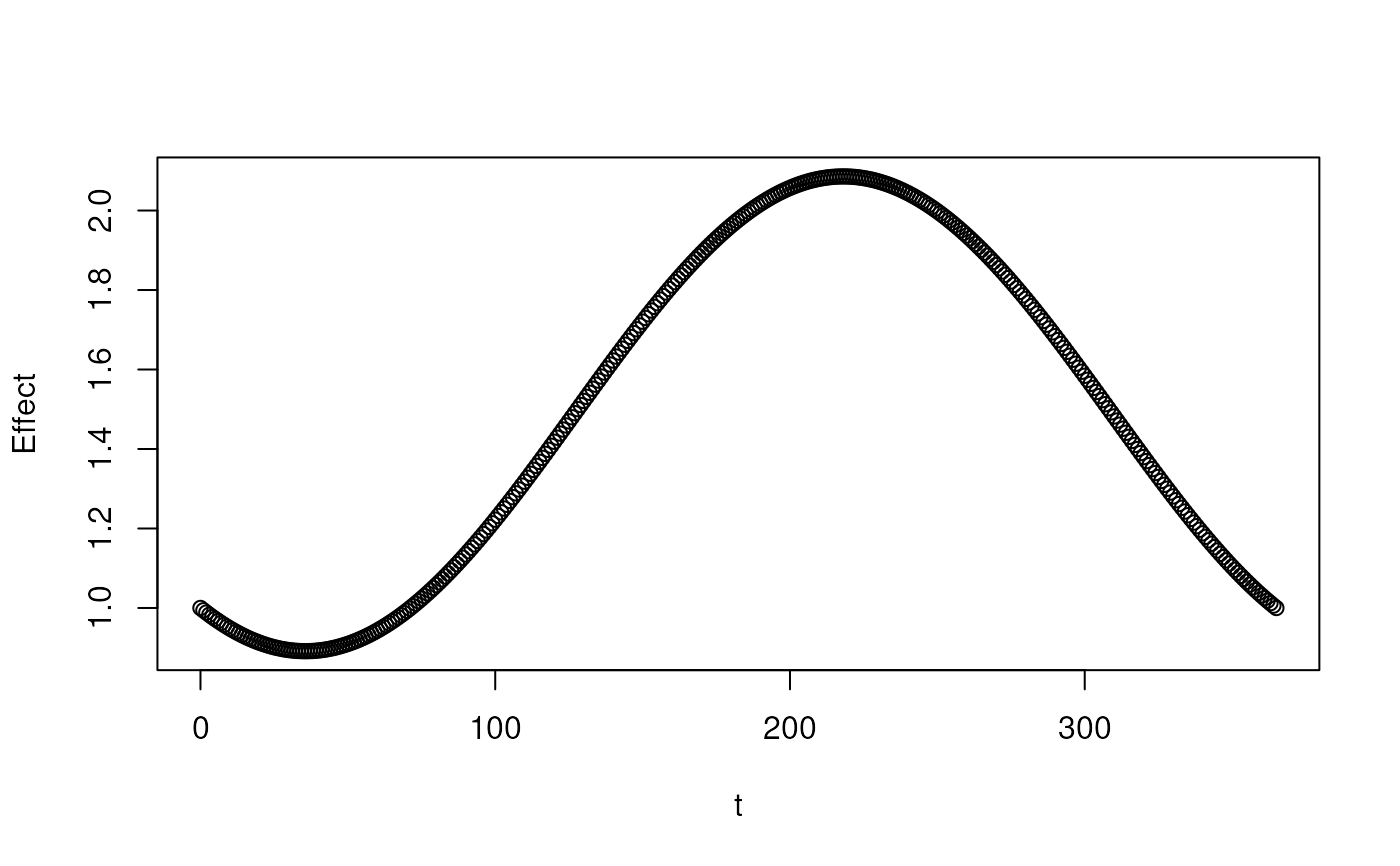
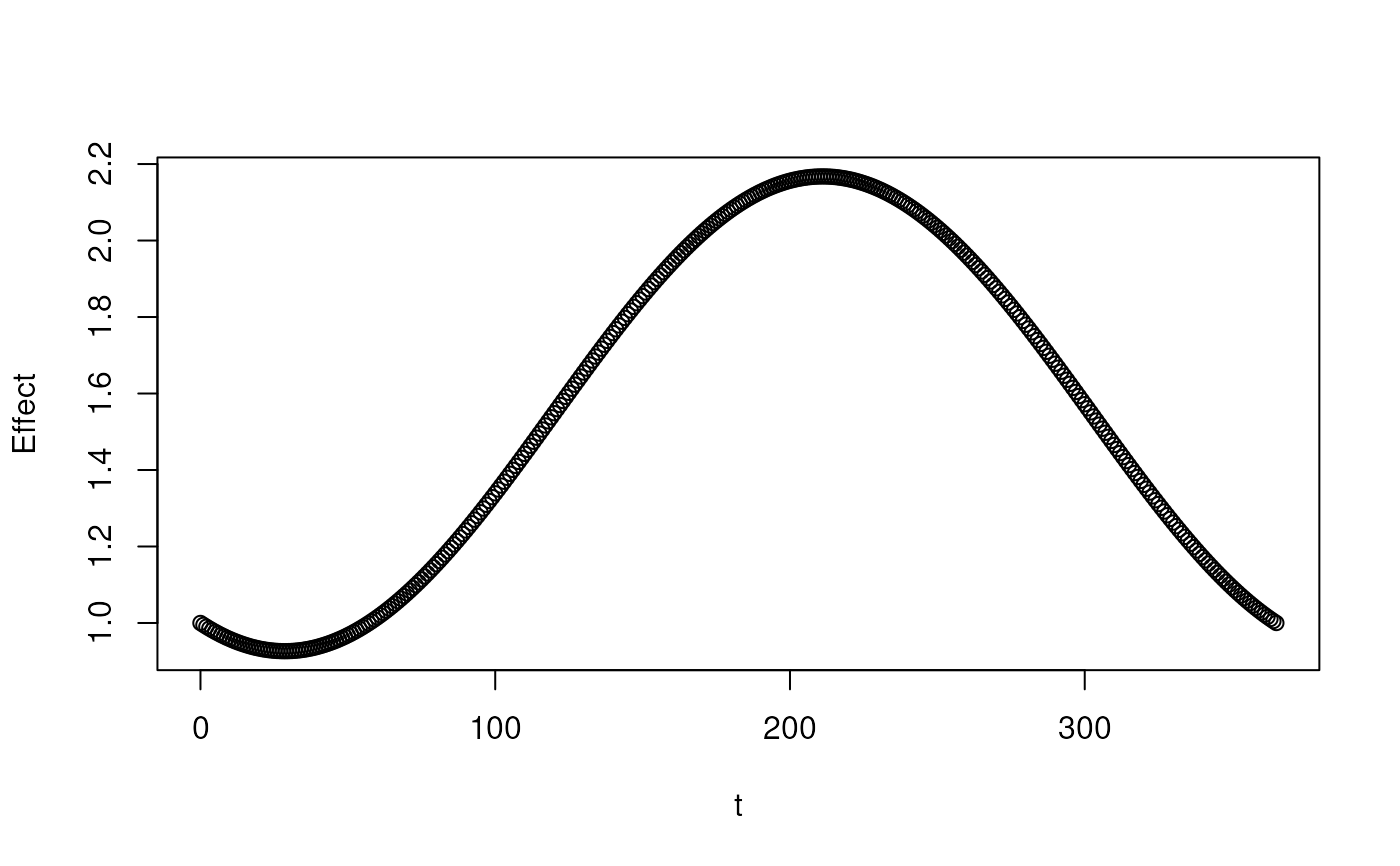
Deploying to gh-pages from @ ssi-dk/diseasy@2d1eb0903b9e709979711220a4517ebb30eea9bc 🚀

diff --git a/articles/SEIR-initialisation.html b/articles/SEIR-initialisation.html
@@ -387,16 +387,16 @@ a reduced probability of testing during weekends.</li>
 <span><span class="co">#&gt; <span style="color: #949494;"># A tibble: 1,500 × 6</span></span></span>
 <span><span class="co">#&gt;    date       age_group variant n_infected n_positive_simple n_positive</span></span>
 <span><span class="co">#&gt;    <span style="color: #949494; font-style: italic;">&lt;date&gt;</span>     <span style="color: #949494; font-style: italic;">&lt;chr&gt;</span>     <span style="color: #949494; font-style: italic;">&lt;chr&gt;</span>        <span style="color: #949494; font-style: italic;">&lt;dbl&gt;</span>             <span style="color: #949494; font-style: italic;">&lt;dbl&gt;</span>      <span style="color: #949494; font-style: italic;">&lt;dbl&gt;</span></span></span>
-<span><span class="co">#&gt; <span style="color: #BCBCBC;"> 1</span> 2020-01-03 00-29     WT            68.0                42         42</span></span>
-<span><span class="co">#&gt; <span style="color: #BCBCBC;"> 2</span> 2020-01-04 00-29     WT           145.                 94         69</span></span>
-<span><span class="co">#&gt; <span style="color: #BCBCBC;"> 3</span> 2020-01-05 00-29     WT           191.                122         93</span></span>
-<span><span class="co">#&gt; <span style="color: #BCBCBC;"> 4</span> 2020-01-06 00-29     WT           220.                142        149</span></span>
-<span><span class="co">#&gt; <span style="color: #BCBCBC;"> 5</span> 2020-01-07 00-29     WT           242.                152        163</span></span>
-<span><span class="co">#&gt; <span style="color: #BCBCBC;"> 6</span> 2020-01-08 00-29     WT           265.                169        180</span></span>
-<span><span class="co">#&gt; <span style="color: #BCBCBC;"> 7</span> 2020-01-09 00-29     WT           289.                189        203</span></span>
-<span><span class="co">#&gt; <span style="color: #BCBCBC;"> 8</span> 2020-01-10 00-29     WT           315.                191        207</span></span>
-<span><span class="co">#&gt; <span style="color: #BCBCBC;"> 9</span> 2020-01-11 00-29     WT           343.                231        176</span></span>
-<span><span class="co">#&gt; <span style="color: #BCBCBC;">10</span> 2020-01-12 00-29     WT           374.                236        174</span></span>
+<span><span class="co">#&gt; <span style="color: #BCBCBC;"> 1</span> 2020-01-03 60+       WT            17.2                 7          7</span></span>
+<span><span class="co">#&gt; <span style="color: #BCBCBC;"> 2</span> 2020-01-04 60+       WT            36.8                26         23</span></span>
+<span><span class="co">#&gt; <span style="color: #BCBCBC;"> 3</span> 2020-01-05 60+       WT            49.1                26         19</span></span>
+<span><span class="co">#&gt; <span style="color: #BCBCBC;"> 4</span> 2020-01-06 60+       WT            57.4                34         39</span></span>
+<span><span class="co">#&gt; <span style="color: #BCBCBC;"> 5</span> 2020-01-07 60+       WT            64.4                47         47</span></span>
+<span><span class="co">#&gt; <span style="color: #BCBCBC;"> 6</span> 2020-01-08 60+       WT            71.6                44         47</span></span>
+<span><span class="co">#&gt; <span style="color: #BCBCBC;"> 7</span> 2020-01-09 60+       WT            79.2                55         59</span></span>
+<span><span class="co">#&gt; <span style="color: #BCBCBC;"> 8</span> 2020-01-10 60+       WT            87.3                61         64</span></span>
+<span><span class="co">#&gt; <span style="color: #BCBCBC;"> 9</span> 2020-01-11 60+       WT            96.0                59         47</span></span>
+<span><span class="co">#&gt; <span style="color: #BCBCBC;">10</span> 2020-01-12 60+       WT           105.                 83         67</span></span>
 <span><span class="co">#&gt; <span style="color: #949494;"># ℹ 1,490 more rows</span></span></span></code></pre></div>
 <div class="sourceCode" id="cb5"><pre class="downlit sourceCode r">
 <code class="sourceCode R"><span><span class="co"># Visualise the example data</span></span>

diff --git a/articles/creating-ensembles.html b/articles/creating-ensembles.html
@@ -193,7 +193,7 @@ instances which we give the class <code>DiseasyEnsemble</code>.</p>
 functions to get a quick overview of the ensemble.</p>
 <div class="sourceCode" id="cb3"><pre class="downlit sourceCode r">
 <code class="sourceCode R"><span><span class="fu"><a href="../reference/print.html">print</a></span><span class="op">(</span><span class="va">ensemble</span><span class="op">)</span></span>
-<span><span class="co">#&gt; DiseasyEnsemble: DiseasyModelG1 (hash: d26fe), DiseasyModelG1 (hash: 9d665), DiseasyModelG1 (hash: 436c6)</span></span></code></pre></div>
+<span><span class="co">#&gt; DiseasyEnsemble: DiseasyModelG1 (hash: bdd52), DiseasyModelG1 (hash: 661b7), DiseasyModelG1 (hash: dfddf)</span></span></code></pre></div>
 <div class="sourceCode" id="cb4"><pre class="downlit sourceCode r">
 <code class="sourceCode R"><span><span class="fu"><a href="https://rdrr.io/r/base/summary.html" class="external-link">summary</a></span><span class="op">(</span><span class="va">ensemble</span><span class="op">)</span></span>
 <span><span class="co">#&gt; DiseasyEnsemble consisting of:</span></span>
@@ -212,12 +212,12 @@ least specify the following:</p>
 <span><span class="co">#&gt; <span style="color: #949494;"># A tibble: 6 × 5</span></span></span>
 <span><span class="co">#&gt;   date       n_positive realisation_id weight model                           </span></span>
 <span><span class="co">#&gt;   <span style="color: #949494; font-style: italic;">&lt;date&gt;</span>          <span style="color: #949494; font-style: italic;">&lt;dbl&gt;</span> <span style="color: #949494; font-style: italic;">&lt;chr&gt;</span>           <span style="color: #949494; font-style: italic;">&lt;dbl&gt;</span> <span style="color: #949494; font-style: italic;">&lt;chr&gt;</span>                           </span></span>
-<span><span class="co">#&gt; <span style="color: #BCBCBC;">1</span> 2021-03-28      <span style="text-decoration: underline;">2</span>132. 1                   1 d26fe7ff2fb274b77fb3da15cf878d53</span></span>
-<span><span class="co">#&gt; <span style="color: #BCBCBC;">2</span> 2021-03-29      <span style="text-decoration: underline;">1</span>719. 1                   1 d26fe7ff2fb274b77fb3da15cf878d53</span></span>
-<span><span class="co">#&gt; <span style="color: #BCBCBC;">3</span> 2021-03-30      <span style="text-decoration: underline;">2</span>432. 1                   1 d26fe7ff2fb274b77fb3da15cf878d53</span></span>
-<span><span class="co">#&gt; <span style="color: #BCBCBC;">4</span> 2021-03-31      <span style="text-decoration: underline;">2</span>555. 1                   1 d26fe7ff2fb274b77fb3da15cf878d53</span></span>
-<span><span class="co">#&gt; <span style="color: #BCBCBC;">5</span> 2021-04-01      <span style="text-decoration: underline;">2</span>163. 1                   1 d26fe7ff2fb274b77fb3da15cf878d53</span></span>
-<span><span class="co">#&gt; <span style="color: #BCBCBC;">6</span> 2021-04-02      <span style="text-decoration: underline;">1</span>253. 1                   1 d26fe7ff2fb274b77fb3da15cf878d53</span></span></code></pre></div>
+<span><span class="co">#&gt; <span style="color: #BCBCBC;">1</span> 2021-03-28      <span style="text-decoration: underline;">2</span>132. 1                   1 bdd5255f35f1e5990a3e9cb79141dfb2</span></span>
+<span><span class="co">#&gt; <span style="color: #BCBCBC;">2</span> 2021-03-29      <span style="text-decoration: underline;">1</span>719. 1                   1 bdd5255f35f1e5990a3e9cb79141dfb2</span></span>
+<span><span class="co">#&gt; <span style="color: #BCBCBC;">3</span> 2021-03-30      <span style="text-decoration: underline;">2</span>432. 1                   1 bdd5255f35f1e5990a3e9cb79141dfb2</span></span>
+<span><span class="co">#&gt; <span style="color: #BCBCBC;">4</span> 2021-03-31      <span style="text-decoration: underline;">2</span>555. 1                   1 bdd5255f35f1e5990a3e9cb79141dfb2</span></span>
+<span><span class="co">#&gt; <span style="color: #BCBCBC;">5</span> 2021-04-01      <span style="text-decoration: underline;">2</span>163. 1                   1 bdd5255f35f1e5990a3e9cb79141dfb2</span></span>
+<span><span class="co">#&gt; <span style="color: #BCBCBC;">6</span> 2021-04-02      <span style="text-decoration: underline;">1</span>253. 1                   1 bdd5255f35f1e5990a3e9cb79141dfb2</span></span></code></pre></div>
 <div class="sourceCode" id="cb6"><pre class="downlit sourceCode r">
 <code class="sourceCode R"><span><span class="fu"><a href="../reference/plot.html">plot</a></span><span class="op">(</span><span class="va">ensemble</span>, observable <span class="op">=</span> <span class="st">"n_positive"</span>, prediction_length <span class="op">=</span> <span class="fl">30</span><span class="op">)</span></span></code></pre></div>
 <p><img src="creating-ensembles_files/figure-html/unnamed-chunk-7-1.png" class="r-plt" alt="Plot of the ensemble predictions. Shaded area is ensemble quantiles with observations as points." width="700"></p>
@@ -296,7 +296,7 @@ parameter settings from before.</p>
 models:</p>
 <div class="sourceCode" id="cb11"><pre class="downlit sourceCode r">
 <code class="sourceCode R"><span><span class="fu"><a href="../reference/print.html">print</a></span><span class="op">(</span><span class="va">ensemble</span><span class="op">)</span></span>
-<span><span class="co">#&gt; DiseasyEnsemble: DiseasyModelG0 (hash: 8c030), DiseasyModelG0 (hash: 1780b), DiseasyModelG0 (hash: 6f2c6), DiseasyModelG1 (hash: d26fe), DiseasyModelG1 (hash: 9d665)</span></span></code></pre></div>
+<span><span class="co">#&gt; DiseasyEnsemble: DiseasyModelG0 (hash: 180d9), DiseasyModelG0 (hash: ca107), DiseasyModelG0 (hash: 60f10), DiseasyModelG1 (hash: bdd52), DiseasyModelG1 (hash: 661b7)</span></span></code></pre></div>
 <div class="sourceCode" id="cb12"><pre class="downlit sourceCode r">
 <code class="sourceCode R"><span><span class="fu"><a href="https://rdrr.io/r/base/summary.html" class="external-link">summary</a></span><span class="op">(</span><span class="va">ensemble</span><span class="op">)</span></span>
 <span><span class="co">#&gt; DiseasyEnsemble consisting of:</span></span>

diff --git a/articles/diseasy-immunity.html b/articles/diseasy-immunity.html
@@ -134,7 +134,7 @@ the following code.</p>
 <span><span class="co">#&gt; $infection</span></span>
 <span><span class="co">#&gt; function (t) </span></span>
 <span><span class="co">#&gt; 1</span></span>
-<span><span class="co">#&gt; &lt;environment: 0x5653221313c8&gt;</span></span>
+<span><span class="co">#&gt; &lt;environment: 0x563c3df5e230&gt;</span></span>
 <span><span class="co">#&gt; attr(,"name")</span></span>
 <span><span class="co">#&gt; [1] "no_waning"</span></span></code></pre></div>
 <p>This returns a <code>named list()</code> where the named target are
@@ -170,7 +170,7 @@ parameter.</li>
 <span><span class="co">#&gt; $infection</span></span>
 <span><span class="co">#&gt; function (t) </span></span>
 <span><span class="co">#&gt; exp(-(t - time_scale)/shape)/(1 + exp(-(t - time_scale)/shape))</span></span>
-<span><span class="co">#&gt; &lt;environment: 0x56532383be50&gt;</span></span>
+<span><span class="co">#&gt; &lt;environment: 0x563c3f6645f8&gt;</span></span>
 <span><span class="co">#&gt; attr(,"name")</span></span>
 <span><span class="co">#&gt; [1] "sigmoidal_waning"</span></span>
 <span><span class="co">#&gt; attr(,"dots")</span></span>
@@ -215,7 +215,7 @@ identification. Default is “custom_waning”.</li>
 <span><span class="co">#&gt; $hospitalisation</span></span>
 <span><span class="co">#&gt; function (t) </span></span>
 <span><span class="co">#&gt; 0.8 * exp(-(t/time_scale)^2) + 0.2</span></span>
-<span><span class="co">#&gt; &lt;environment: 0x5653245fde70&gt;</span></span>
+<span><span class="co">#&gt; &lt;environment: 0x563c40429cb8&gt;</span></span>
 <span><span class="co">#&gt; attr(,"name")</span></span>
 <span><span class="co">#&gt; [1] "gaussian_waning"</span></span>
 <span><span class="co">#&gt; attr(,"dots")</span></span>
@@ -253,8 +253,8 @@ additional arguments.</p>
 <span><span class="co">#&gt; $infection</span></span>
 <span><span class="co">#&gt; function (t) </span></span>
 <span><span class="co">#&gt; exp(-(t - time_scale)/shape)/(1 + exp(-(t - time_scale)/shape))</span></span>
-<span><span class="co">#&gt; &lt;bytecode: 0x5653259fcc50&gt;</span></span>
-<span><span class="co">#&gt; &lt;environment: 0x565325501500&gt;</span></span>
+<span><span class="co">#&gt; &lt;bytecode: 0x563c4182a868&gt;</span></span>
+<span><span class="co">#&gt; &lt;environment: 0x563c41331028&gt;</span></span>
 <span><span class="co">#&gt; attr(,"name")</span></span>
 <span><span class="co">#&gt; [1] "sigmoidal_waning"</span></span>
 <span><span class="co">#&gt; attr(,"dots")</span></span>
@@ -272,7 +272,7 @@ additional arguments.</p>
 <span><span class="co">#&gt; $hospitalisation</span></span>
 <span><span class="co">#&gt; function (t) </span></span>
 <span><span class="co">#&gt; 0.8 * exp(-(t/time_scale)^2) + 0.2</span></span>
-<span><span class="co">#&gt; &lt;environment: 0x5653261a4c58&gt;</span></span>
+<span><span class="co">#&gt; &lt;environment: 0x563c41fd0dc0&gt;</span></span>
 <span><span class="co">#&gt; attr(,"name")</span></span>
 <span><span class="co">#&gt; [1] "gaussian_waning"</span></span>
 <span><span class="co">#&gt; attr(,"dots")</span></span>
@@ -296,7 +296,7 @@ targets in the current models.</p>
 <span><span class="co">#&gt; $infection</span></span>
 <span><span class="co">#&gt; function (t) </span></span>
 <span><span class="co">#&gt; exp(-(t - time_scale)/shape)/(1 + exp(-(t - time_scale)/shape))</span></span>
-<span><span class="co">#&gt; &lt;environment: 0x565325501500&gt;</span></span>
+<span><span class="co">#&gt; &lt;environment: 0x563c41331028&gt;</span></span>
 <span><span class="co">#&gt; attr(,"name")</span></span>
 <span><span class="co">#&gt; [1] "sigmoidal_waning"</span></span>
 <span><span class="co">#&gt; attr(,"dots")</span></span>
@@ -307,7 +307,7 @@ targets in the current models.</p>
 <span><span class="co">#&gt; $hospitalisation</span></span>
 <span><span class="co">#&gt; function (t) </span></span>
 <span><span class="co">#&gt; 0.8 * exp(-(t/time_scale)^2) + 0.2</span></span>
-<span><span class="co">#&gt; &lt;environment: 0x5653261a4c58&gt;</span></span>
+<span><span class="co">#&gt; &lt;environment: 0x563c41fd0dc0&gt;</span></span>
 <span><span class="co">#&gt; attr(,"name")</span></span>
 <span><span class="co">#&gt; [1] "gaussian_waning"</span></span>
 <span><span class="co">#&gt; attr(,"dots")</span></span>

diff --git a/articles/SEIR-implementation.html b/articles/SEIR-implementation.html
@@ -856,11 +856,11 @@ demographic groups and one variant.</p>
 <span>  check <span class="op">=</span> <span class="st">"equal"</span>, times <span class="op">=</span> <span class="fl">1000L</span></span>
 <span><span class="op">)</span></span>
 <span><span class="co">#&gt; Unit: microseconds</span></span>
-<span><span class="co">#&gt;                expr    min      lq      mean  median     uq      max neval</span></span>
-<span><span class="co">#&gt;      purrr::map_dbl 25.347 27.1455 31.498818 28.5135 29.650 2233.685  1000</span></span>
-<span><span class="co">#&gt;              sapply 12.343 13.1050 14.243813 13.5105 14.607   33.904  1000</span></span>
-<span><span class="co">#&gt;  sapply - USE.NAMES 12.514 13.1140 14.205026 13.5050 14.517   39.915  1000</span></span>
-<span><span class="co">#&gt;              vapply  4.779  5.2500  5.668347  5.4900  5.721   27.472  1000</span></span></code></pre></div>
+<span><span class="co">#&gt;                expr    min     lq      mean median      uq      max neval</span></span>
+<span><span class="co">#&gt;      purrr::map_dbl 22.063 23.005 26.838960 23.480 24.1910 2638.292  1000</span></span>
+<span><span class="co">#&gt;              sapply 11.527 12.218 12.845314 12.519 12.9445   27.000  1000</span></span>
+<span><span class="co">#&gt;  sapply - USE.NAMES 11.648 12.208 12.879050 12.529 12.9745   48.182  1000</span></span>
+<span><span class="co">#&gt;              vapply  4.547  4.847  5.163371  5.007  5.2325   21.973  1000</span></span></code></pre></div>
 <p>Note, that the best performing function in this case is
 <code><a href="https://rdrr.io/r/base/lapply.html" class="external-link">vapply()</a></code>.</p>
 </div>

diff --git a/reference/DiseasyImmunity.html b/reference/DiseasyImmunity.html
@@ -529,7 +529,7 @@ Number of compartments to be used in the model.</p></dd>
 <span class="r-out co"><span class="r-pr">#&gt;</span> $infection</span>
 <span class="r-out co"><span class="r-pr">#&gt;</span> function (t) </span>
 <span class="r-out co"><span class="r-pr">#&gt;</span> exp(-t/time_scale)</span>
-<span class="r-out co"><span class="r-pr">#&gt;</span> &lt;environment: 0x55da8cb996a0&gt;</span>
+<span class="r-out co"><span class="r-pr">#&gt;</span> &lt;environment: 0x5601a572c8c0&gt;</span>
 <span class="r-out co"><span class="r-pr">#&gt;</span> attr(,"name")</span>
 <span class="r-out co"><span class="r-pr">#&gt;</span> [1] "exponential_waning"</span>
 <span class="r-out co"><span class="r-pr">#&gt;</span> attr(,"dots")</span>
@@ -541,7 +541,7 @@ Number of compartments to be used in the model.</p></dd>
 <span class="r-out co"><span class="r-pr">#&gt;</span> $infection</span>
 <span class="r-out co"><span class="r-pr">#&gt;</span> function (t) </span>
 <span class="r-out co"><span class="r-pr">#&gt;</span> exp(-t/time_scale)</span>
-<span class="r-out co"><span class="r-pr">#&gt;</span> &lt;environment: 0x55da8cb996a0&gt;</span>
+<span class="r-out co"><span class="r-pr">#&gt;</span> &lt;environment: 0x5601a572c8c0&gt;</span>
 <span class="r-out co"><span class="r-pr">#&gt;</span> attr(,"name")</span>
 <span class="r-out co"><span class="r-pr">#&gt;</span> [1] "exponential_waning"</span>
 <span class="r-out co"><span class="r-pr">#&gt;</span> attr(,"dots")</span>

diff --git a/articles/diseasy-model-ode.html b/articles/diseasy-model-ode.html
@@ -292,7 +292,7 @@ immunity:</p>
 <span><span class="co">#&gt; $infection</span></span>
 <span><span class="co">#&gt; function (t) </span></span>
 <span><span class="co">#&gt; exp(-t/time_scale)</span></span>
-<span><span class="co">#&gt; &lt;environment: 0x55a14ac13630&gt;</span></span>
+<span><span class="co">#&gt; &lt;environment: 0x55b871fd9a28&gt;</span></span>
 <span><span class="co">#&gt; attr(,"name")</span></span>
 <span><span class="co">#&gt; [1] "exponential_waning"</span></span>
 <span><span class="co">#&gt; attr(,"dots")</span></span>

diff --git a/reference/DiseasyEnsemble-generics.html b/reference/DiseasyEnsemble-generics.html
@@ -175,7 +175,7 @@ date, stratification and model (optional).</p>
 <span class="r-in"><span>  <span class="op">)</span></span></span>
 <span class="r-in"><span></span></span>
 <span class="r-in"><span>  <span class="fu"><a href="print.html">print</a></span><span class="op">(</span><span class="va">ensemble</span><span class="op">)</span></span></span>
-<span class="r-out co"><span class="r-pr">#&gt;</span> DiseasyEnsemble: DiseasyModelG0 (hash: f2110), DiseasyModelG1 (hash: b1bd2) </span>
+<span class="r-out co"><span class="r-pr">#&gt;</span> DiseasyEnsemble: DiseasyModelG0 (hash: 200f6), DiseasyModelG1 (hash: 0a777) </span>
 <span class="r-in"><span></span></span>
 <span class="r-in"><span>  <span class="fu"><a href="https://rdrr.io/r/base/summary.html" class="external-link">summary</a></span><span class="op">(</span><span class="va">ensemble</span><span class="op">)</span></span></span>
 <span class="r-out co"><span class="r-pr">#&gt;</span> DiseasyEnsemble consisting of:</span>

diff --git a/reference/combineasy.html b/reference/combineasy.html
@@ -119,7 +119,7 @@ The combination of parameters to set in the model instances (generated by <code>
 <span class="r-in"><span>  <span class="op">)</span></span></span>
 <span class="r-in"><span></span></span>
 <span class="r-in"><span>  <span class="fu"><a href="print.html">print</a></span><span class="op">(</span><span class="va">ensemble</span><span class="op">)</span></span></span>
-<span class="r-out co"><span class="r-pr">#&gt;</span> DiseasyEnsemble: DiseasyModelG1 (hash: f7d9c) </span>
+<span class="r-out co"><span class="r-pr">#&gt;</span> DiseasyEnsemble: DiseasyModelG1 (hash: 9d280) </span>
 <span class="r-in"><span></span></span>
 <span class="r-in"><span>  <span class="fu"><a href="https://rdrr.io/r/base/summary.html" class="external-link">summary</a></span><span class="op">(</span><span class="va">ensemble</span><span class="op">)</span></span></span>
 <span class="r-out co"><span class="r-pr">#&gt;</span> DiseasyEnsemble consisting of:</span>

diff --git a/reference/plot.html b/reference/plot.html
@@ -105,7 +105,7 @@ See the <code>$plot()</code> method for each module</p></dd>
 <span class="r-out co"><span class="r-pr">#&gt;</span> $hospitalisation</span>
 <span class="r-out co"><span class="r-pr">#&gt;</span> function (t) </span>
 <span class="r-out co"><span class="r-pr">#&gt;</span> exp(-t/time_scale)</span>
-<span class="r-out co"><span class="r-pr">#&gt;</span> &lt;environment: 0x55da9a1f1bc8&gt;</span>
+<span class="r-out co"><span class="r-pr">#&gt;</span> &lt;environment: 0x5601b1dad070&gt;</span>
 <span class="r-out co"><span class="r-pr">#&gt;</span> attr(,"name")</span>
 <span class="r-out co"><span class="r-pr">#&gt;</span> [1] "exponential_waning"</span>
 <span class="r-out co"><span class="r-pr">#&gt;</span> attr(,"dots")</span>